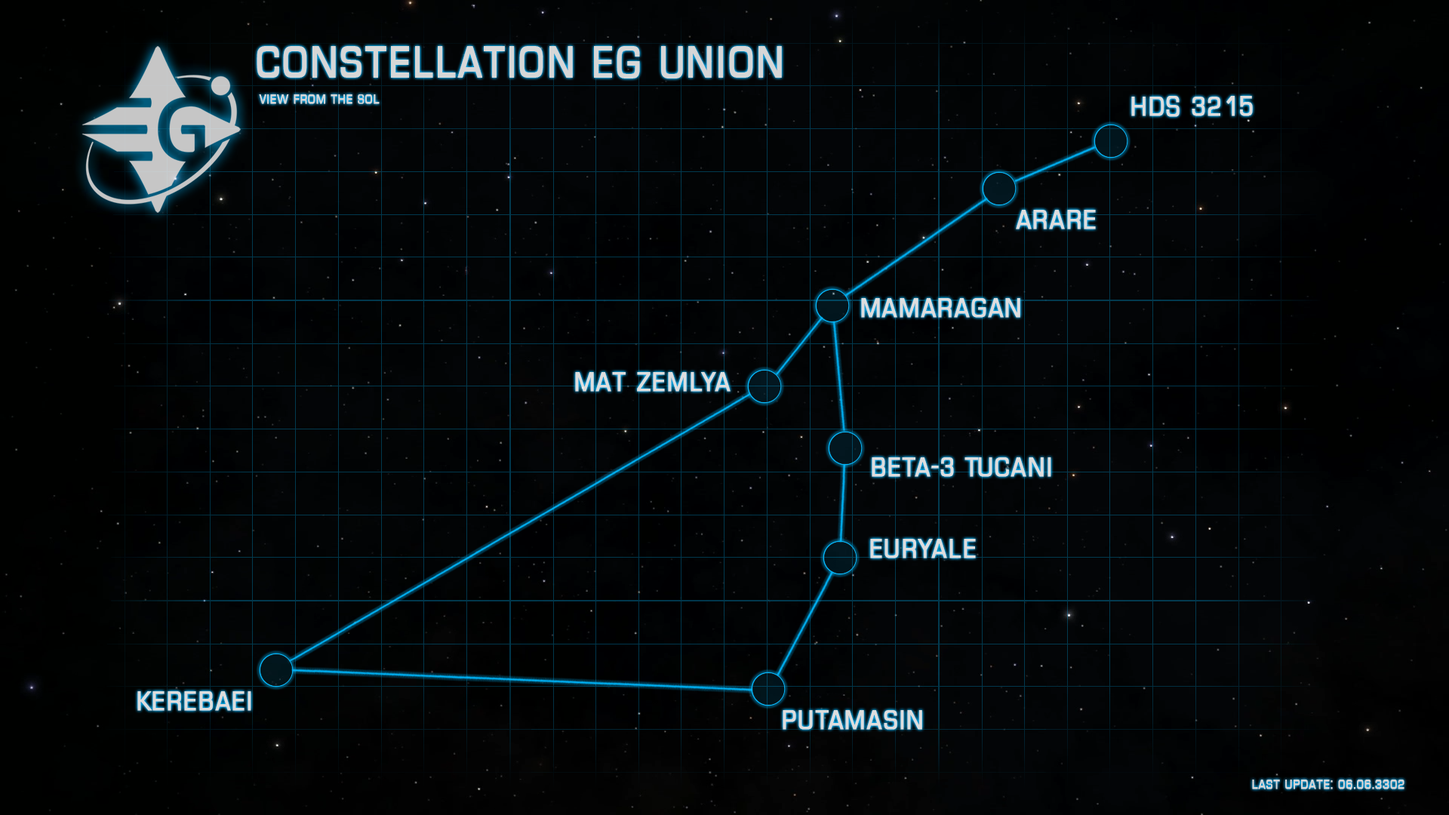
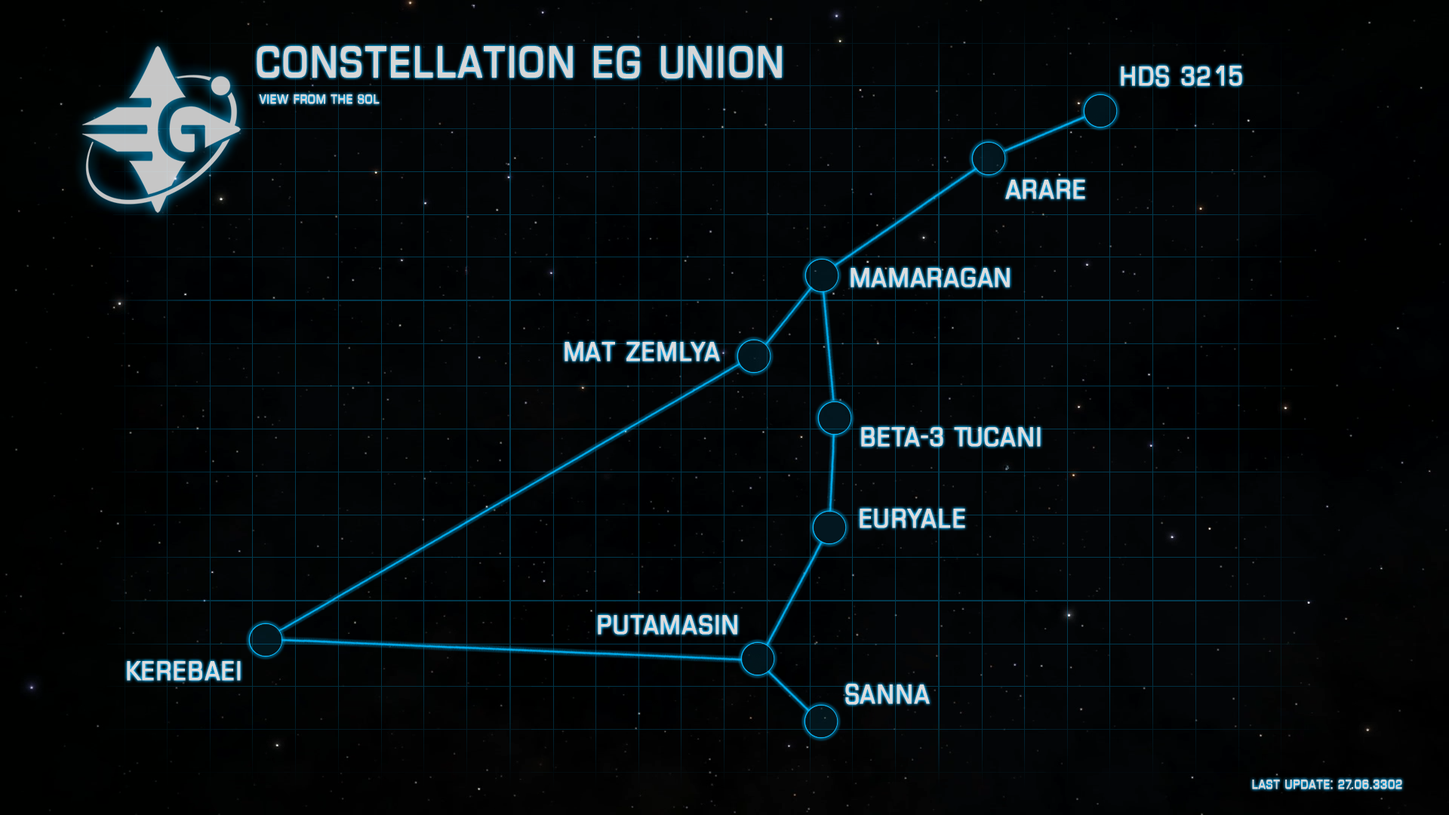
Хроники и опечатки
- Дополнены хроники
- Исправлена верстка хроник (семантическа работа с цитатами)
- Испавлены опечатки в биографии диктатора
- Обновлено созвездие

Changed region(s): [[0.0625, 0.0611, 0.875, 0.9167], [0.9062, 0.9472, 0.9688, 0.9778]]

diff --git a/euryale-chronicles.html b/euryale-chronicles.html
@@ -198,9 +198,9 @@
 				<div class="row news">
 					<div class="col-md-2 date">07.07.3301</div>
 					<div class="col-md-9">
-						Последние наемники из охранных компаний <em>"Алый Бражник"</em> и <em>"Щит Фаэн"</em>, из системы
+						Последние наемники из охранных компаний "Алый Бражник" и "Щит Фаэн", из системы
 						<strong>Firen</strong>, либо бежали, либо были уничтожены, либо арестованы.
-						Также захвачен командир наемников <em>"Щита Фаэн"</em>, <strong>Гаррет Со</strong>, он арестован и дает
+						Также захвачен командир наемников "Щита Фаэн", <strong>Гаррет Со</strong>, он арестован и дает
 						показания.
 						Противостояние между <strong>United Euryale First</strong> и наемниками
 						<strong>Euryale Solutions</strong> закончилось.
@@ -218,7 +218,7 @@
 					<div class="col-md-2 date">10.07.3301</div>
 					<div class="col-md-9">
 						В систему <strong>Firen</strong> направлена следственная группа, по поводу инцидента с наемниками из
-						охранных компаний <em>"Алый Бражник"</em> и <em>"Щит Фаэн"</em>.
+						охранных компаний "Алый Бражник" и "Щит Фаэн".
 					</div>
 				</div>
 				<div class="row news">
@@ -226,11 +226,11 @@
 					<div class="col-md-9">
 						После допроса <strong>Гаррета Со</strong> стало известно, что совет директоров
 						<strong>Euryale Solutions</strong> не покидал систему, а находился на принадлежащей ей секретной
-						исследовательской подледной станции <em>"Холод"</em>, на <strong>Euryale 9</strong>.
+						исследовательской подледной станции "Холод", на <strong>Euryale 9</strong>.
 						Отряд Сил Специального Назначения был послан на станцию, для задержания членов совета.
 						По прибытию было обнаружено, что обитатели станции мертвы.
 						Предварительный анализ показал, что совет и ученые со станции мертвы уже, по меньшей мере, неделю.
-						Однако наемники из компаний <em>"Алый Бражник"</em> и <em>"Щит Фаэн"</em>, были убиты двое суток назад.
+						Однако наемники из компаний "Алый Бражник" и "Щит Фаэн", были убиты двое суток назад.
 						Расследование продолжается.
 					</div>
 				</div>
@@ -346,12 +346,10 @@
 							<strong>Первый Экспедиционный Корпус</strong>, выбил из системы остатки сил службы безопасности <strong>Ullese Natural Limited</strong>.
 							На станцию начались поставки гуманитарной помощи, а тяжело раненых перевозят в <strong>Euryale</strong>.
 						</p>
-						<p>
-							<strong>Земина Торваль</strong> заявила:<br /><em>
-							 "Я не одобряю вторжение и захват военными силами <strong>UEF</strong> системы <strong>Ullese</strong>, однако вынуждена признать, что служба безопасности отреагировала слишком жестко на мирную забастовку рабочих.
-							 И если бы не вмешательство сил <strong>UEF</strong> все могло бы обернуться гораздо большими жертвами.
-							 Уверяю вас, ответственные за это понесут наказание соразмерное их преступлениям!"
-						</em></p>
+						<p><strong>Земина Торваль</strong> заявила:</p>
+					 	<blockquote>
+					 		Я не одобряю вторжение и захват военными силами <strong>UEF</strong> системы <strong>Ullese</strong>, однако вынуждена признать, что служба безопасности отреагировала слишком жестко на мирную забастовку рабочих. И если бы не вмешательство сил <strong>UEF</strong> все могло бы обернуться гораздо большими жертвами. Уверяю вас, ответственные за это понесут наказание соразмерное их преступлениям!
+				 		</blockquote>
 					</div>
 				</div>
 				<div class="row news">
@@ -421,39 +419,31 @@
 							Пресс-секретарь <strong>UEF</strong> сообщил, что сейчас <strong>Мосс</strong> и все люди, фигурировавшие в этом расследовании, отстранены от своих должностей и находятся под домашним арестом.
 							Проводится проверка всех доказательств представленных журналистами <string>Sugrivik News</string>.
 						</p>
-						<p>
-							Небольшая справка:<br />
-						<em>
-							Как многие знают <strong>EG Prime</strong> все еще не колонизирована.
+						<p>Небольшая справка:</p>
+						<blockquote>
+							<p>Как многие знают <strong>EG Prime</strong> все еще не колонизирована.
 							Основное население системы проживает на <strong>EG Main HQ</strong> и других станциях.
 							В основном это связано с достаточно скудным выделением средств федеральным правительством, так как большая их часть уходила в открытый на десять лет раньше <strong>Sugrivik</strong>.
 							За все годы после открытия системы и постройки станции <strong>Popovich</strong> на <strong>EG Prime</strong> было построено только 4 исследовательские станции: Альфа, Бета, Гамма и Дельта.
 							В среднем каждая станция рассчитана на 50-100 человек.
 							Альфа и Бета были построены <strong>Euryale Solutions</strong> и <strong>Future of Euryale</strong>.
 							А Гамму и Дельту построила <strong>Colonial Drones</strong> совместно с <strong>Euryale Exchange</strong>.
-							Ходят слухи, что <strong>Семья</strong> так же располагает несколькими базами на поверхности, однако достоверных подтверждений этому нет.
-						</em></p>
-						<p><em>
-							Основные перерабатывающие и производственные мощности, как и штаб-квартира <strong>Colonial Drones</strong>, располагаются на станции <strong>EG Main HQ</strong>.
-						</em></p>
+							Ходят слухи, что <strong>Семья</strong> так же располагает несколькими базами на поверхности, однако достоверных подтверждений этому нет.</p>
+							<p>Основные перерабатывающие и производственные мощности, как и штаб-квартира <strong>Colonial Drones</strong>, располагаются на станции <strong>EG Main HQ</strong>.</p>
+						</blockquote>
 					</div>
 				</div>
 				<div class="row news">
 					<div class="col-md-2 date">23.09.3301</div>
 					<div class="col-md-9">
 						<p>
-							Сегодня суд огласил приговор так называемой <em>"эвриальской пятерке"</em>.
+							Сегодня суд огласил приговор так называемой "эвриальской пятерке".
 							Бывший президент Euryale <strong>Гийом Леду</strong>, начальник станции EG Main HQ, <strong>Пол Мариков</strong>, министр юстиции <strong>Эльвира Цэань</strong>, министр финансов <strong>Барри Стротен</strong>, министр внутренних дел <strong>Рин Хашимото</strong> в среднем получили по 80 лет тюрьмы за коррупцию и превышение должностных полномочий.
 							Так же их действия, а в некоторых случаях бездействие и халатность привели к многочисленным жертвам.
 						</p>
-						<p>
-							Комментарий одного из рабочих завода по сборке роботов:<br />
-							<em>
-								"Знаете, я думаю, что с ними слишком мягко обошлись.
-								Мой тесть погиб в секции B2.
-								Стоило бы их выкинуть в шлюз вместо чистой камеры и трехразового питания!"
-							</em>
-						</p>
+						<p>Комментарий одного из рабочих завода по сборке роботов:</p>
+						<blockquote>Знаете, я думаю, что с ними слишком мягко обошлись. Мой тесть погиб в секции B2. Стоило бы их выкинуть в шлюз вместо чистой камеры и трехразового питания!
+						</blockquote>
 					</div>
 				</div>
 				<div class="row news">
@@ -467,14 +457,12 @@
 							Сейчас за их жизнь борются врачи.
 							Жертв среди гражданских нет.
 						</p>
-						<p>
-							Комментарий одного из прохожих, который стал свидетелем этой перестрелки:<br />
-							<em>
-								"Откуда эти отморозки достали гранатометы и многоствольные пулеметы?
-								Они впятером разнесли весь сектор!
-								<strong>Леду</strong> хоть и был вором, но держал этих анархистов в узде!"
-							</em>
-						</p>
+						<p>Комментарий одного из прохожих, который стал свидетелем этой перестрелки:</p>
+						<blockquote>
+							"Откуда эти отморозки достали гранатометы и многоствольные пулеметы?
+							Они впятером разнесли весь сектор!
+							<strong>Леду</strong> хоть и был вором, но держал этих анархистов в узде!"
+						</blockquote>					
 					</div>
 				</div>
 			</section>
@@ -489,7 +477,7 @@
 					<div class="col-md-2 date">02.10.3301</div>
 					<div class="col-md-9">
 						Из анонимного источника связанного с группой ведущей расследование стало известно, что к конфликту с <strong>Euryale Solutions</strong> причастны головорезы из <strong>Kumo Crew</strong>.
-						Они убили ученых и совет <strong>Euryale Solutions</strong>, а после и наемников охранных компаний на станции <em>"Холод"</em>.
+						Они убили ученых и совет <strong>Euryale Solutions</strong>, а после и наемников охранных компаний на станции "Холод".
 						Однако, пока следователям не удалось выяснить какие цели они преследовали.
 					</div>
 				</div>
@@ -531,7 +519,7 @@
 					<div class="col-md-9">
 						<p>Силы <strong>Marquis du Kausha</strong> перейдя в наступление, полностью завладели космическим пространством вокруг лун <strong>Ullese 1 b</strong> и <strong>с</strong>, на которых располагаются базы <strong>Ullese Gold Cartel</strong>.</p>
 						<p>Виконт <strong>Эрцеф фон Бруменштайн</strong>, командующий операцией, прокомментировал дальнейшие планы своих подразделений так:<br />
-						<em>"Сейчас мы их будем бомбить!"</em></p>
+						<q>Сейчас мы их будем бомбить!</q></p>
 						<p>Часть население <strong>Aparctias</strong> вышла на демонстрацию с требованиями немедленно провести выборы между <strong>LFT 78 Patron's Prinsiples</strong> и <strong>UEF</strong>.</p>
 					</div>
 				</div>
@@ -540,16 +528,14 @@
 					<div class="col-md-9">
 						В <strong>Aparctias</strong> началась избирательная компания между <strong>LFT 78 Patron's Prinsiples</strong> и <strong>UEF</strong>.
 						Комментарий жительницы станции <strong>Almadrava</strong>:<br />
-						<em>"Хотя их обещания и выглядят привлекательными, у нас не все рады приходу <strong>UEF</strong>."</em>
+						<q>Хотя их обещания и выглядят привлекательными, у нас не все рады приходу <strong>UEF</strong>.</q>
 					</div>
 				</div>
 				<div class="row news">
 					<div class="col-md-2 date">18.10.3301</div>
 					<div class="col-md-9">
-						<p>Журналисты <strong>Sugrivik News</strong> опубликовали репортаж о том, как <strong>UEF</strong> пытается подтасовать выборы, подкупает избирателей и угрожает кандидатам из <strong>Patron's Prinsiples</strong>.
-						Официальные лица в <strong>Euryale</strong> не дают комментарий по этому поводу.
-						Представители <strong>Patron's Prinsiples</strong> сообщили, что представители <strong>UEF</strong> попросили приостановить избирательную кампанию и готовы оплатить все связанные с этим расходы.</p>
-						<p><strong>Sugrivik Today</strong> сообщили о том, сколько и как некоторые официальные лица <strong>UEF</strong> и их родственники тратят деньги на курортах системы <strong>Sugrivik</strong>.</p>
+						<p>Журналисты <strong>Sugrivik News</strong> опубликовали репортаж о том, как <strong>UEF</strong> пытается подтасовать выборы, подкупает избирателей и угрожает кандидатам из <strong>Patron's Prinsiples</strong>. Официальные лица в <strong>Euryale</strong> не дают комментарий по этому поводу. Представители <strong>Patron's Prinsiples</strong> сообщили, что представители <strong>UEF</strong> попросили приостановить избирательную кампанию и готовы оплатить все связанные с этим расходы.</p>
+						<p><strong>Sugrivik Today</strong> сообщили о том, сколько и как некоторые официальные лица <strong>UEF</strong> и их родственники тратят деньги на курортах системы <strong>Sugrivik</strong>. В частности были озвучены имена советников: <strong>Пётр Тасил</strong> и <strong>Людо ибн Маул</strong>.</p>
 					</div>
 				</div>
 				<div class="row news">
@@ -565,22 +551,26 @@
 					<div class="col-md-9">
 						<p>Вчера поздно вечером группировка численностью порядка 50 кораблей вышла из суперкруиза рядом со станцией и блокировала порт, а спустя 30 минут хорошо вооруженные люди захватили ключевые помещения станции, диспетчерскую астроконтроля, административный сектор и здание правительства, располагающееся на кольце.
 						Очевидцы сообщают, что рядом с домами некоторых высокопоставленных чиновников <strong>UEF</strong> были слышны звуки боя.</p>
-						<p>Диспетчер астроконтроля, <strong>Боб Сомас</strong>:<br />
-						<em>"Не знаю, кто это был, но они возникли словно ниоткуда!
+						<p>Диспетчер астроконтроля, <strong>Боб Сомас</strong>:</p>
+						<blockquote>Не знаю, кто это был, но они возникли словно ниоткуда!
 						Курьерский корабль военных стартовал час назад и на радаре ничего не было, и вдруг, в 12 километрах появилась отметка!
 						Пока мы пытались понять что это, из круиза начали вываливаться анаконды и другие корабли!
 						Похоже, эти психи шли на полной скорости и использовали экстренное торможение!
 						Пока все, открыв рты, смотрели на прибывавшие корабли, я заметил как несколько аспов без опознавательных знаков сели.
-						А где-то минут через пять в диспетчерскую вошли вооруженные люди в боевой броне и вежливо попросили нас удалиться."</em></p>
+						А где-то минут через пять в диспетчерскую вошли вооруженные люди в боевой броне и вежливо попросили нас удалиться.</blockquote>
 					</div>
 				</div>
 				<div class="row news">
 					<div class="col-md-2 date">21.10.3301</div>
 					<div class="col-md-9">
-						Пресс-секретарь сообщил о том, что некоторые члены <strong>UEF</strong> пытались совершить переворот и захватить <strong>EG Main HQ</strong>, но своевременные и стремительные действия позволили это предотвратить.
-						Наш лидер с верными ему сторонниками создал новую партию - <strong>EG Union</strong>.
-						К сожалению, части заговорщикам удалось закрепиться в <strong>Ullese</strong>, и в данный момент у нас нет ресурсов, чтобы их оттуда выбить.
-						Пресс-секретарь <strong>EGU</strong> не стал комментировать, что же за группировка захватила станцию и удерживала в течение 11 часов, а затем покинула ее перед самым приходом экспедиционного корпуса.
+						<p>Пресс-секретарь сообщил о том, что некоторые члены совета <strong>UEF</strong>, пытались совершить переворот и захватить <strong>EG Main HQ</strong>, но своевременные и стремительные действия позволили это предотвратить. К сожалению, части заговорщиков удалось сбежать, советники <strong>Френк Пан</strong>, <strong>Пётр Тасил</strong>, <strong>Лидия Равец</strong> объявлены в розыск. Есть информация, что на данный момент они скрываются в <strong>Ullese</strong>. Принимая во внимание события последних дней и то что часть членов <strong>United Euryale First</strong> не оправдали доверие народа, наш лидер с верными ему сторонниками создал новую фракцию - <strong>EG Union</strong>.</p>
+						<p>Пресс-секретарь <strong>EGU</strong> не стал комментировать, что же за группировка захватила станцию и удерживала в течение 11 часов, а затем покинула ее перед самым приходом экспедиционного корпуса.</p>
+					</div>
+				</div>
+				<div class="row news">
+					<div class="col-md-2 date">22.10.3301</div>
+					<div class="col-md-9">
+						<strong>Людо ибн Маул</strong>, схваченный во время попытки переворота, предстанет перед судом.
 					</div>
 				</div>
 			</section>
@@ -601,7 +591,7 @@
 					<div class="col-md-2 date">09.11.3301</div>
 					<div class="col-md-9">
 						<p>Сегодня официальный представитель <strong>Lakon Spaceways</strong> в <strong>Euryale</strong> сообщил, что его компания в ближайшее время прекратит производство Asp на судостроительных мощностях <strong>EG Main HQ</strong> и уволит порядка пяти тысяч сотрудников.</p>
-						<p><em>"Система становится небезопасной. Только на этой неделе мы потеряли четвертый транспорт с комплектующими для наших производственных линий!"</em> - сообщил <strong>Роджер Феррис</strong>, представитель <strong>Lakon Spaceways</strong>.</p>
+						<p><q>Система становится небезопасной. Только на этой неделе мы потеряли четвертый транспорт с комплектующими для наших производственных линий!</q> - сообщил <strong>Роджер Феррис</strong>, представитель <strong>Lakon Spaceways</strong>.</p>
 						<p>Также ходят слухи, что <strong>Falcon deLacy</strong> хочет сократить производство своей продукции на верфях <strong>Euryale</strong>.</p>
 					</div>
 				</div>
@@ -633,7 +623,7 @@
 					<div class="col-md-2 date">29.11.3301</div>
 					<div class="col-md-9">
 						<p>Представитель <strong>Falcon deLacy</strong> сообщил, о создании линии по сборке нового корабля Cobra Mk IV на верфях <strong>EG Main HQ</strong> и что порядка 95% персонала попадавшего под сокращение останутся на местах.</p>
-						<p><em>"Это потрясающая новость! Сейчас в системе довольно туго с работой, а на пособие семью не прокормишь."</em> - так прокомментировал это известие <strong>Кэвин Мукерджи</strong>, один из рабочих сборочной линии.</p>
+						<p><q>Это потрясающая новость! Сейчас в системе довольно туго с работой, а на пособие семью не прокормишь.</q> - так прокомментировал это известие <strong>Кэвин Мукерджи</strong>, один из рабочих сборочной линии.</p>
 					</div>
 				</div>
 				<div class="row news">
@@ -669,8 +659,7 @@
 					<div class="col-md-2 date">03.12.3301</div>
 					<div class="col-md-9">
 						<p>Сегодня утром <strong>Первый Экспедиционный Корпус</strong>, под командованием адмирала <strong>Нэйтана Филлиона</strong>, совершил переход в Putamasin, чтобы обеспечивать охрану станции и кораблей снабжения. Однако по пути он был атакованы силами <strong>Putamasin Life Incorporated</strong>.</p>
-						<p><em>"Силы <strong>Putamasin Life Incorporated</strong> совершили вероломное нападение на наш <strong>Корпус</strong>, собиравшийся обеспечивать безопасность наших людей на станции Baffin Gateway. Все межзвездное сообщество теперь увидело истинное лицо корпораций федерации!"</em><br />
-						- сообщил пресс-секретарь <strong>EGU</strong>.</p>
+						<p><q>Силы <strong>Putamasin Life Incorporated</strong> совершили вероломное нападение на наш <strong>Корпус</strong>, собиравшийся обеспечивать безопасность наших людей на станции Baffin Gateway. Все межзвездное сообщество теперь увидело истинное лицо корпораций федерации!</q> - сообщил пресс-секретарь <strong>EGU</strong>.</p>
 						<p><strong>Putamasin Life Incorporated</strong> заявила, что <strong>EGU</strong> вторглась в <strong>Putamasin</strong> и призывает федеральное правительство защитить их от военной агрессии со стороны EG Union.</p>
 						<p><strong>Sugrivik News</strong> сообщает, что с ближайшей базы в систему <strong>Putamasin</strong> для поддержки <strong>Life Incorporated</strong> были направлены крейсера <strong>FNS Thanatos</strong> и <strong>FNS Ajax</strong>.</p>
 					</div>
@@ -715,15 +704,14 @@
 					<div class="col-md-2 date">10.12.3301</div>
 					<div class="col-md-9">
 						<p><strong>EG Union</strong> всячески отрицает свою причастность к волнениям на <strong>Weil Orbital</strong>.</p>
-						<p><em>"Под надуманными предлогами <strong>Life Incorporated</strong> пыталась отобрать у нас законно приобретенную <strong>Baffin Gateway</strong>. Когда юридические методы не сработали, они решили использовать силу и федеральный флот, который не сильно им помог. Их безответственная политика всколыхнула народ! Хотя фактически мы уже контролируем систему, но мы предоставим возможность жителям <strong>Weil Orbital</strong> и всего <strong>Putamasin</strong> самим выбрать свое будущее."</em><br />
-						- сообщил пресс-секретарь <strong>EGU</strong>.</p>
+						<p><q>Под надуманными предлогами <strong>Life Incorporated</strong> пыталась отобрать у нас законно приобретенную <strong>Baffin Gateway</strong>. Когда юридические методы не сработали, они решили использовать силу и федеральный флот, который не сильно им помог. Их безответственная политика всколыхнула народ! Хотя фактически мы уже контролируем систему, но мы предоставим возможность жителям <strong>Weil Orbital</strong> и всего <strong>Putamasin</strong> самим выбрать свое будущее.</q> - сообщил пресс-секретарь <strong>EGU</strong>.</p>
 					</div>
 				</div>
 				<div class="row news">
 					<div class="col-md-2 date">14.12.3301</div>
 					<div class="col-md-9">
 						<p><strong>Роджер Феррис</strong>, представитель <strong>Lakon Spaceways</strong>, сообщил, что производство на судостроительных мощностях <strong>EG Main HQ</strong> продолжится, однако вместо Asp Explorer будут собирать Asp Scout.</p>
-						<p><em>"К сожалению, нам все равно придется сократить небольшую часть персонала, однако это лучше чем увольнять всех и полностью закрывать производство в этой системе"</em><br />
+						<p><q>К сожалению, нам все равно придется сократить небольшую часть персонала, однако это лучше чем увольнять всех и полностью закрывать производство в этой системе</q>
 						- сообщил <strong>Роджер Феррис</strong>.</p>
 						<p>Анонимные источники сообщают, что это стало возможно благодаря контракту между <strong>EG Union</strong> и <strong>Lakon Spaceways</strong> на постройку 25 Asp Scout на верфях <strong>EG Main HQ</strong> для нужд военных.</p>
 					</div>
@@ -773,8 +761,8 @@
 				<div class="row news">
 					<div class="col-md-2 date">24.12.3301</div>
 					<div class="col-md-9">
-						<strong>Экспедиционный Корпус</strong> отступил к <strong>Weil Orbital</strong>. На вопрос журналиста о том можно ли считать поражением сил <strong>EGU</strong> в связи с тем что им не удалось захватить <strong>Hartog Terminal</strong> пресс-секретарь <strong>EGU</strong> ответил так:<br />
-						<em>“Не ставилась задача захвата этой станции. Мы хотели защитить гражданское население от возможной агрессии со стороны <strong>Life Incorporated</strong> во время проведения референдума, и с ней мы справились на 100%. К сожалению, сам референдум пришлось перенести. О новой дате будет объявлено позже.”</em>
+						<p><strong>Экспедиционный Корпус</strong> отступил к <strong>Weil Orbital</strong>. На вопрос журналиста о том можно ли считать поражением сил <strong>EGU</strong> в связи с тем что им не удалось захватить <strong>Hartog Terminal</strong> пресс-секретарь <strong>EGU</strong> ответил так:</p>
+						<blockquote>Не ставилась задача захвата этой станции. Мы хотели защитить гражданское население от возможной агрессии со стороны <strong>Life Incorporated</strong> во время проведения референдума, и с ней мы справились на 100%. К сожалению, сам референдум пришлось перенести. О новой дате будет объявлено позже.</blockquote>
 					</div>
 				</div>
 				<div class="row news">
@@ -832,10 +820,12 @@
 					<div class="col-md-2 date">01.01.3302</div>
 					<div class="col-md-9">
 						<p>Сегодня новостные агентства <strong>Euryale</strong> опубликовали новогоднее обращение руководителя фракции <strong>EGU</strong> к гражданам:</p>
-						<p><em>“Дорогие друзья. Этот год стал для нас переломным. Наша система и все мы обрели независимость. На этом пути у нас было много препятствий, много трудностей, много потерь и лишений. Не все смогли его преодолеть и разделить с нами радость победы, но их труд и самоотверженность не будут забыты! Они всегда будут в наших сердцах!</em></p>
-						<p><em>Однако не стоит почивать на лаврах! Впереди всегда будут новые трудности, новые препятствия и те, кому наша независимость, наши достижения и наш дом будут желанной добычей. Такова несправедливость вселенной.</em></p>
-						<p><em>И все же, я твердо знаю, что все вместе мы можем этому противостоять. Только Объединение всей <strong>Euryale</strong> позволило нам преодолеть трудности прошедшего года, и только Союз всех нас поможет нам преодолеть грядущие!</em></p>
-						<p><em>С Новым Годом!”</em></p>
+						<blockquote>
+							<p>Дорогие друзья. Этот год стал для нас переломным. Наша система и все мы обрели независимость. На этом пути у нас было много препятствий, много трудностей, много потерь и лишений. Не все смогли его преодолеть и разделить с нами радость победы, но их труд и самоотверженность не будут забыты! Они всегда будут в наших сердцах!</p>
+							<p>Однако не стоит почивать на лаврах! Впереди всегда будут новые трудности, новые препятствия и те, кому наша независимость, наши достижения и наш дом будут желанной добычей. Такова несправедливость вселенной.</p>
+							<p>И все же, я твердо знаю, что все вместе мы можем этому противостоять. Только Объединение всей <strong>Euryale</strong> позволило нам преодолеть трудности прошедшего года, и только Союз всех нас поможет нам преодолеть грядущие!</p>
+							<p>С Новым Годом!</p>
+						</blockquote>						
 					</div>
 				</div>
 				<div class="row news">
@@ -868,9 +858,12 @@
 					<div class="col-md-2 date">06.01.3302</div>
 					<div class="col-md-9">
 						<p>Техники на <strong>Weil Orbital</strong> в системе <strong>Putamasin</strong> сообщают о неполадках в системах астроконтроля и системах наведения противометеоритной защиты и обороны станции.</p>
-						<p><em>“Да, мы слышали о так называемой “технологической чуме”. Я уверен, что это не тот случай. И честно говоря, я думаю, что большая часть неполадок на тех станциях халатность и несоблюдение правил эксплуатации, а оставшаяся откровенный саботаж.</em></p>
-						<p><em>Мы наблюдали аномальные скачки энергии в системах слежении астроконтроля и системах наведения защиты станции. Пришлось их обесточить, чтобы не повредить аппаратуру. Так что сейчас мы займемся проверкой всех связанных с ними сенсоров, антенных решеток и соединяющих все это 20 километров кабеля”</em><br />
-						- сообщил <strong>Сэму Мгамна</strong>, начальник технической службы станции <strong>Weil Orbital</strong>.</p>
+						<blockquote>
+						<p>Да, мы слышали о так называемой “технологической чуме”. Я уверен, что это не тот случай. И честно говоря, я думаю, что большая часть неполадок на тех станциях халатность и несоблюдение правил эксплуатации, а оставшаяся откровенный саботаж.</p>
+						<p>Мы наблюдали аномальные скачки энергии в системах слежении астроконтроля и системах наведения защиты станции. Пришлось их обесточить, чтобы не повредить аппаратуру. Так что сейчас мы займемся проверкой всех связанных с ними сенсоров, антенных решеток и соединяющих все это 20 километров кабеля</p>
+						</blockquote>
+						<p>Сообщил <strong>Сэму Мгамна</strong>, начальник технической службы станции <strong>Weil Orbital</strong>.</p>
+
 					</div>
 				</div>
 				<div class="row news">
@@ -883,8 +876,8 @@
 					<div class="col-md-2 date">08.01.3302</div>
 					<div class="col-md-9">
 						<p>Техники с <strong>Baffin Gateway</strong> в системе <strong>Putamasin</strong> сообщили о том, что им удалось переподключить несколько спутников слежения на их диспетчерскую.</p>
-						<p><em>“К сожалению, наше оборудование не рассчитано на то количество спутников, которыми оперирует астроконтроль на <strong>Weil Orbital</strong> для отслеживания системного трафика, поэтому большая часть системы в реальном времени нам не видна. Однако время от времени мы будем подключаться к другим спутниковым группам, чтобы не оставлять патрули без прикрытия”</em><br />
-						- сообщила <strong>Екатерина Румянцева</strong>, начальник диспетчерской службы <strong>Baffin Gateway</strong>.</p>
+						<blockquote>К сожалению, наше оборудование не рассчитано на то количество спутников, которыми оперирует астроконтроль на <strong>Weil Orbital</strong> для отслеживания системного трафика, поэтому большая часть системы в реальном времени нам не видна. Однако время от времени мы будем подключаться к другим спутниковым группам, чтобы не оставлять патрули без прикрытия</blockquote>
+						Сообщила <strong>Екатерина Румянцева</strong>, начальник диспетчерской службы <strong>Baffin Gateway</strong>.</p>
 					</div>
 				</div>
 				<div class="row news">
@@ -910,56 +903,59 @@
 				<div class="row news">
 					<div class="col-md-2 date">12.01.3302</div>
 					<div class="col-md-9">
-						<p>Техники с Weil Orbital сообщают, что им удалось установить причину неисправности систем наведения противометеоритной защиты и обороны, а также перезапустить реактор станции. Выяснилось, что в нескольких технических туннелях было установлено оборудование перехватывающие управление системами защиты станции. Его установила служба безопасности Putamasin Life Incorporated втайне от технического персонала, когда стало ясно, что станцию им не удержать.</p>
-						<p>Проводится полная проверка EG Main HQ и Baffin Gateway на наличие такого рода оборудования.</p>
-						<p>Врачи из военного госпиталя Медузы на EG Main HQ сообщают, что состояние адмирала Филлиона стабилизировалось, однако все еще тяжелое.</p>
+						<p>Техники с <strong>Weil Orbital</strong> сообщают, что им удалось установить причину неисправности систем наведения противометеоритной защиты и обороны, а также перезапустить реактор станции. Выяснилось, что в нескольких технических туннелях было установлено оборудование перехватывающие управление системами защиты станции. Его установила служба безопасности <strong>Putamasin Life Incorporated</strong> втайне от технического персонала, когда стало ясно, что станцию им не удержать.</p>
+						<p>Проводится полная проверка <strong>EG Main HQ</strong> и <strong>Baffin Gateway</strong> на наличие такого рода оборудования.</p>
+						<p>Врачи из военного госпиталя Медузы на <strong>EG Main HQ</strong> сообщают, что состояние адмирала Филлиона стабилизировалось, однако все еще тяжелое.</p>
 					</div>
 				</div>
 				<div class="row news">
 					<div class="col-md-2 date">13.01.3302</div>
 					<div class="col-md-9">
-						<p>Журналисты Sugrivik News выпустили репортаж о недавних событиях в системе Putamasin.</p>
-						<p>“Закат деспотичного режима в Euryale? Банда <strong>EGU</strong> разбита!</p>
-						<p>Из наших анонимных источников стало известно, что в последнем сражении так называемый Экспедиционный Корпус <strong>EGU</strong> потерял ранеными и убитыми до 70% личного состава, а кораблями 80%. По словам экспертов, EG Union не сможет быстро восполнить такие потери и тем более вести боевые действия.</p>
-						<p>Как известно нашим зрителям на протяжении больше полугода новости из системы Euryale будоражат наш регион космоса. Сначала одна бандитская группировка, прикрываясь высокими лозунгами и якобы поддержкой народа, устроила вооружённый переворот и, несмотря на все усилия демократически избранного правительства, им удалось захватить EG Main HQ. После они вторглись в Ullese и, подстрекая рабочих станции, напали на службу безопасности Ullese Natural Limited и захватили Roche Works! Империя попыталась замять дело, заявив, что силовики Natural Limited “якобы” неадекватно отреагировали на протесты рабочих и поддержала действия United Euryale First. Очень странный поворот, не находите? Ведь Империя, по сути, потеряла контроль надо Ullese.</p>
-						<p>Затем, видимо не захотев делиться со своими бывшими подельниками, их руководитель основал новую группировку и прикрываясь все теми же лозунгами о коррупции и продажности властей устроил резню на EG Main и ее окрестностях! После всех этих потрясений и так не богатое население теперь влачит жалкое существование на грани гуманитарной катастрофы. Попытки федерального правительства договориться о поставках гуманитарной помощи в Euryale оказались безуспешными.</p>
-						<p>И снова этим бандитам удается уговорить Империю в лице Empire Assembly из Putamasin, те продают им Baffin Gateway! И тут возникает вопрос: для чего Империя поддерживает такие варварские режимы на своих границах?</p>
-						<p>И вот, под надуманным предлогом защиты “своих” людей на Baffin Gateway и конвои снабжения от атак пиратов, какая ирония, <strong>EGU</strong> вводят свой Экспедиционный Корпус в Putamasin. Естественно силы безопасности системы и федеральный флот не могли закрыть на это глаза и атаковали корабли нарушителей! Но <strong>EGU</strong>, как и прежде используя провокаторов, учинила беспорядки на Weil Orbital. К сожалению сил безопасности станции не хватило для того чтобы обеспечить порядок и федеральному флоту пришлось отступить дабы предотвратить потери среди гражданских.</p>
-						<p>Однако, флот совместно с силами безопасности PLI провел блестящую операцию об итогах которой мы сообщили ранее.</p>
-						<p>Наши аналитики ожидают, что без своего “Корпуса” режим EG Union падет в ближайший месяц и в Euryale освободившейся от этой банды вновь воцарица демократия и закон!”</p>
+						<p>Журналисты <strong>Sugrivik News</strong> выпустили репортаж о недавних событиях в системе <strong>Putamasin</strong>.</p>
+						<blockquote>
+							<h4>Закат деспотичного режима в <strong>Euryale</strong>? Банда <strong>EGU</strong> разбита!</h4>
+							<p>Из наших анонимных источников стало известно, что в последнем сражении так называемый <strong>Экспедиционный Корпус EGU</strong> потерял ранеными и убитыми до 70% личного состава, а кораблями 80%. По словам экспертов, <strong>EG Union</strong> не сможет быстро восполнить такие потери и тем более вести боевые действия.</p>
+							<p>Как известно нашим зрителям на протяжении больше полугода новости из системы <strong>Euryale</strong> будоражат наш регион космоса. Сначала одна бандитская группировка, прикрываясь высокими лозунгами и якобы поддержкой народа, устроила вооружённый переворот и, несмотря на все усилия демократически избранного правительства, им удалось захватить <strong>EG Main HQ</strong>. После они вторглись в <strong>Ullese</strong> и, подстрекая рабочих станции, напали на службу безопасности <strong>Ullese Natural Limited</strong> и захватили <strong>Roche Works</strong>! Империя попыталась замять дело, заявив, что силовики <strong>Natural Limited</strong> "якобы" неадекватно отреагировали на протесты рабочих и поддержала действия <strong>United Euryale First</strong>. Очень странный поворот, не находите? Ведь Империя, по сути, потеряла контроль над <strong>Ullese</strong>.</p>
+							<p>Затем, видимо не захотев делиться со своими бывшими подельниками, их руководитель основал новую группировку и прикрываясь все теми же лозунгами о коррупции и продажности властей устроил резню на <strong>EG Main</strong> и в ее окрестностях! После всех этих потрясений и так не богатое население теперь влачит жалкое существование на грани гуманитарной катастрофы. Попытки федерального правительства договориться о поставках гуманитарной помощи в <strong>Euryale</strong> оказались безуспешными.</p>
+							<p>И снова этим бандитам удается уговорить Империю в лице <strong>Empire Assembly</strong> из <strong>Putamasin</strong>, те продают им <strong>Baffin Gateway</strong>! И тут возникает вопрос: для чего Империя поддерживает такие варварские режимы на своих границах?</p>
+							<p>И вот, под надуманным предлогом защиты "своих" людей на <strong>Baffin Gateway</strong> и конвои снабжения от атак пиратов, какая ирония, <strong>EGU</strong> вводят свой <strong>Экспедиционный Корпус</strong> в <strong>Putamasin</strong>. Естественно силы безопасности системы и федеральный флот не могли закрыть на это глаза и атаковали корабли нарушителей! Но <strong>EGU</strong>, как и прежде используя провокаторов, учинила беспорядки на <strong>Weil Orbital</strong>. К сожалению сил безопасности станции не хватило для того чтобы обеспечить порядок и федеральному флоту пришлось отступить дабы предотвратить потери среди гражданских.</p>
+							<p>Однако, флот совместно с силами безопасности <strong>PLI</strong> провел блестящую операцию об итогах которой мы сообщили ранее.</p>
+							<p>Наши аналитики ожидают, что без своего "Корпуса" режим <strong>EG Union</strong> падет в ближайший месяц и в <strong>Euryale</strong> освободившейся от этой банды вновь воцарит демократия и закон!</p>
+						</blockquote>
 					</div>
 				</div>
 				<div class="row news">
 					<div class="col-md-2 date">14.01.3302</div>
 					<div class="col-md-9">
-						Техники с Weil Orbital сообщают, что они исправили транспондер станции и теперь он передает идентификационные коды EG Union.
+						Техники с <strong>Weil Orbital</strong> сообщают, что они исправили транспондер станции и теперь он передает идентификационные коды <strong>EG Union</strong>.
 					</div>
 				</div>
 				<div class="row news">
 					<div class="col-md-2 date">15.01.3302</div>
 					<div class="col-md-9">
-						Пресс-секретарь подтвердил, что Экспедиционный Корпус действительно понес серьезные потери - “Да, мы понесли серьезные потери, однако не стоит думать, что наша решимость ослабела настолько, что мы добровольно и без борьбы вернемся к жалкому состоянию прежних лет”.
+						Пресс-секретарь подтвердил, что <strong>Экспедиционный Корпус</strong> действительно понес серьезные потери:
+						<blockquote>Да, мы понесли серьезные потери, однако не стоит думать, что наша решимость ослабела настолько, что мы добровольно и без борьбы вернемся к жалкому состоянию прежних лет.</blockquote>
 					</div>
 				</div>
 				<div class="row news">
 					<div class="col-md-2 date">16.01.3302</div>
 					<div class="col-md-9">
-						Вице-адмиралу Лин Фей присвоено звание адмирала.
+						Вице-адмиралу <strong>Лин Фей</strong> присвоено звание адмирала.
 					</div>
 				</div>
 				<div class="row news">
 					<div class="col-md-2 date">17.01.3302</div>
 					<div class="col-md-9">
-						<p>В Mat Zemlya продолжают искать пропавший конвой.</p>
-						<p>Стало известно, что выживший пират, напавший со своими подельниками на конвой 27.12.3301, рассказал следователям новую информацию. Что конкретно он сообщил не известно.</p>
+						<p>В <strong>Mat Zemlya</strong> продолжают искать пропавший конвой.</p>
+						<p>Стало известно, что выживший пират, напавший со своими подельниками на конвой 27 декабря, рассказал следователям новую информацию. Что конкретно он сообщил не известно.</p>
 					</div>
 				</div>
 				<div class="row news">
 					<div class="col-md-2 date">18.01.3302</div>
 					<div class="col-md-9">
-						<p>В Mat Zemlya направлены все доступные силы Экспедиционного Корпуса под командованием адмирала Лин Фей, для поиска пропавшего конвоя. Так же сообщается, что к поискам присоединилось множество независимых пилотов.</p>
-						<p>Coalition of Mat Zemlya потребовала всем кораблям <strong>EGU</strong> в течении 24 часов покинуть систему, иначе они силой будут выдворены из системы.</p>
-						<p>EG Union заявила, что ее корабли не уйдут пока не найдут пропавший конвой.</p>
+						<p>В <strong>Mat Zemlya</strong> направлены все доступные силы <strong>Экспедиционного Корпуса</strong> под командованием адмирала <strong>Лин Фей</strong>, для поиска пропавшего конвоя. Так же сообщается, что к поискам присоединилось множество независимых пилотов.</p>
+						<p><strong>Coalition of Mat Zemlya</strong> потребовала всем кораблям <strong>EGU</strong> в течении 24 часов покинуть систему, иначе они силой будут выдворены из системы.</p>
+						<p><strong>EG Union</strong> заявила, что ее корабли не уйдут пока не найдут пропавший конвой.</p>
 					</div>
 				</div>
 				<div class="row news">

diff --git a/index.html b/index.html
@@ -339,7 +339,7 @@
 		</div>
 		<div class="col-md-7 col-md-offset-1 wow fadeInRight animated dictator-bio" data-wow-offset="10" data-wow-duration="1.5s">
 			<h3 id="dictator-bio-header">Юрий Гром</h3>
-			<p id="dictator-bio">Родился в системе Euryale на станции EG Main HQ. Бывший командующий силами обороны Euryale, он сумел подняться за не сколько лет до руководящих постов у одной из фракции, смог сплотить EG Pilots и население Euryale добившись  независимости системы и подтолкнув ее на новый этап развития.</p>
+			<p id="dictator-bio">Родился в системе Euryale на станции EG Main HQ. Бывший командующий силами обороны Euryale, он сумел подняться за несколько лет до руководящих постов одной из фракций, смог сплотить EG Pilots и население Euryale добившись независимости системы и подтолкнув ее на новый этап развития.</p>
 		</div>
 	</div>
 </div>	

diff --git a/css/chronicles-style.css b/css/chronicles-style.css
@@ -35,3 +35,11 @@
 .navbar li.current a{
 	color: #ffffff;
 }
+
+blockquote {
+	font-size: 16px;
+}
+
+q {
+	font-style: italic;
+}
